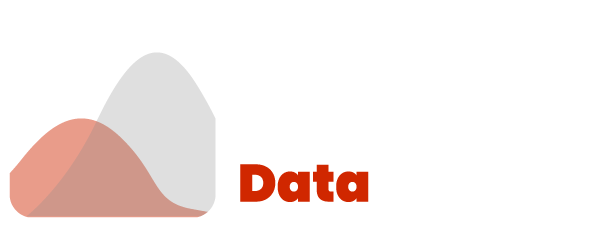
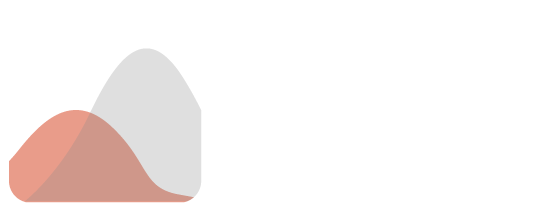
moved member section to top of content

Changed region(s): [[0.3946, 0.7143, 0.6375, 0.9143], [0.0304, 0.9143, 0.3339, 0.9714], [0.0911, 0.5143, 0.1518, 0.5429]]

diff --git a/_includes/page__hero_left_secondary.html b/_includes/page__hero_left_secondary.html
@@ -5,7 +5,7 @@
         <div class="shape shape-style-1 shape-dark-secondary">
             <!-- <div class="shape shape-style-1 shape-primary"> -->
         </div>
-        <div class="container py-lg-md d-flex">
+        <div class="container py-lg-md d-flex container-secondary">
             <div class="col px-0">
                 <div class="row">
                     <div class="col-lg-8">
@@ -13,10 +13,9 @@
                         <h1 class="display-3 text-white">
                             {{ page.title | default: site.title | markdownify | remove: "<p>" | remove: "</p>" }}
                         </h1>
-                       <!-- <img src="{{ "/assets/img/brand/ucds-wordmark-light.png" | relative_url }}"> --> 
-                        <p class="lead  text-black secondary-ex">
+                        <!-- <p class="lead  text-black secondary-ex">
                             {{ page.excerpt | markdownify | remove: "<p>" | remove: "</p>" }}
-                        </p>
+                        </p> -->
                     </div>
                 </div>
             </div>

diff --git a/_sass/custom/landing.scss b/_sass/custom/landing.scss
@@ -5,6 +5,10 @@ h1.text-red{
 h1.text-white{
     color: #fff !important;
 }
+.container-secondary{
+    padding-bottom:0em !important;
+
+}
 
 .primary-ex{
     font-weight: 400;
@@ -13,14 +17,19 @@ h1.text-white{
 }
 
 .secondary-ex{
-    font-weight: 500;
+    font-weight: 200;
     font-size: medium;
-    margin-top: 0em;
+    margin-bottom: 3em;
+    border-bottom: .0625rem solid #e9ecef !important;
+
+    // font-weight: 500;
+    // font-size: large;
+    // margin-top: 0em;
 }
 
 .secondary-ex a{
     color:#17191d !important;
-    font-weight: 600;
+    font-weight: 400;
 }
 
 .secondary-ex a:hover{

diff --git a/members.md b/members.md
@@ -5,7 +5,11 @@ excerpt: >
   The UCDS is led by a director, with the assistance of associate directors and the other core members.  The Associate Direct or Research organizes research-focused events like the <a href="seminar.html">Data Science Seminar</a>.  The Associare Director of Outreach builds relations with other researchers around campus, including through the annual <a href="dataday.html">Data Science Day</a>.  And the Associate Director of Student Involvement leads efforts to engage students in data science, including as liason to associated <a href="club.html">student groups</a>.  
   The Affiliated members repsents the centers connections around campus into the many disciplines where data science reaches.  
 ---
-
+<p class="lead  text-black secondary-ex">
+  {{ page.excerpt | markdownify | remove: "<p>" | remove: "</p>" }}
+  <br>
+  <br>
+ </p>
 
 <h3 class="display-3 text-center mb-3">Core Members</h3>
 
